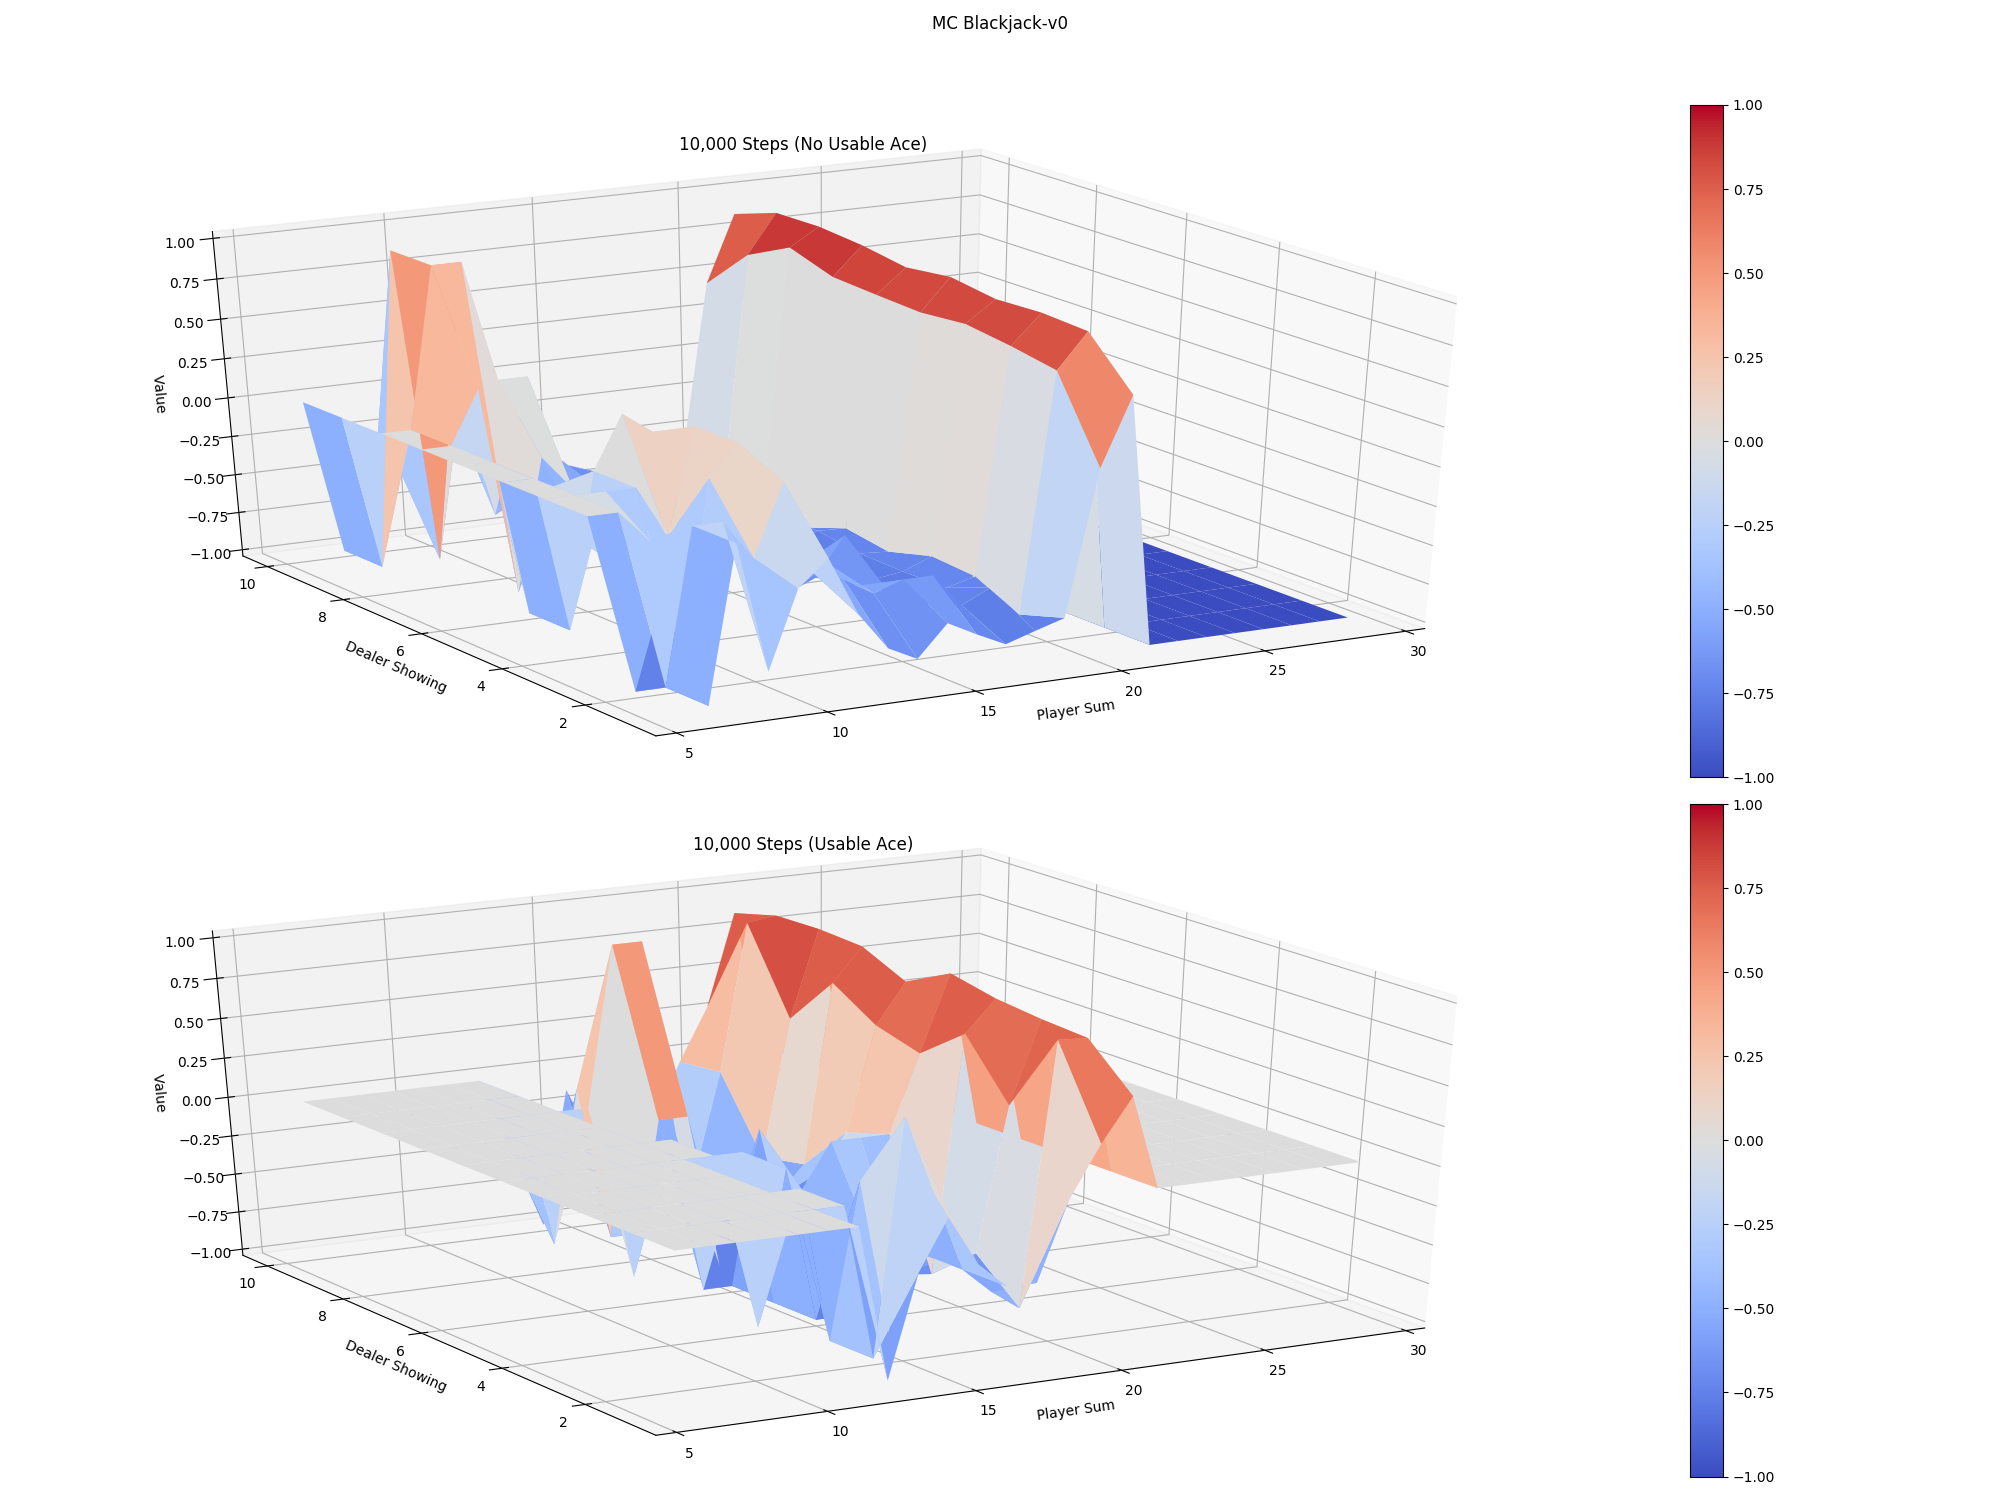
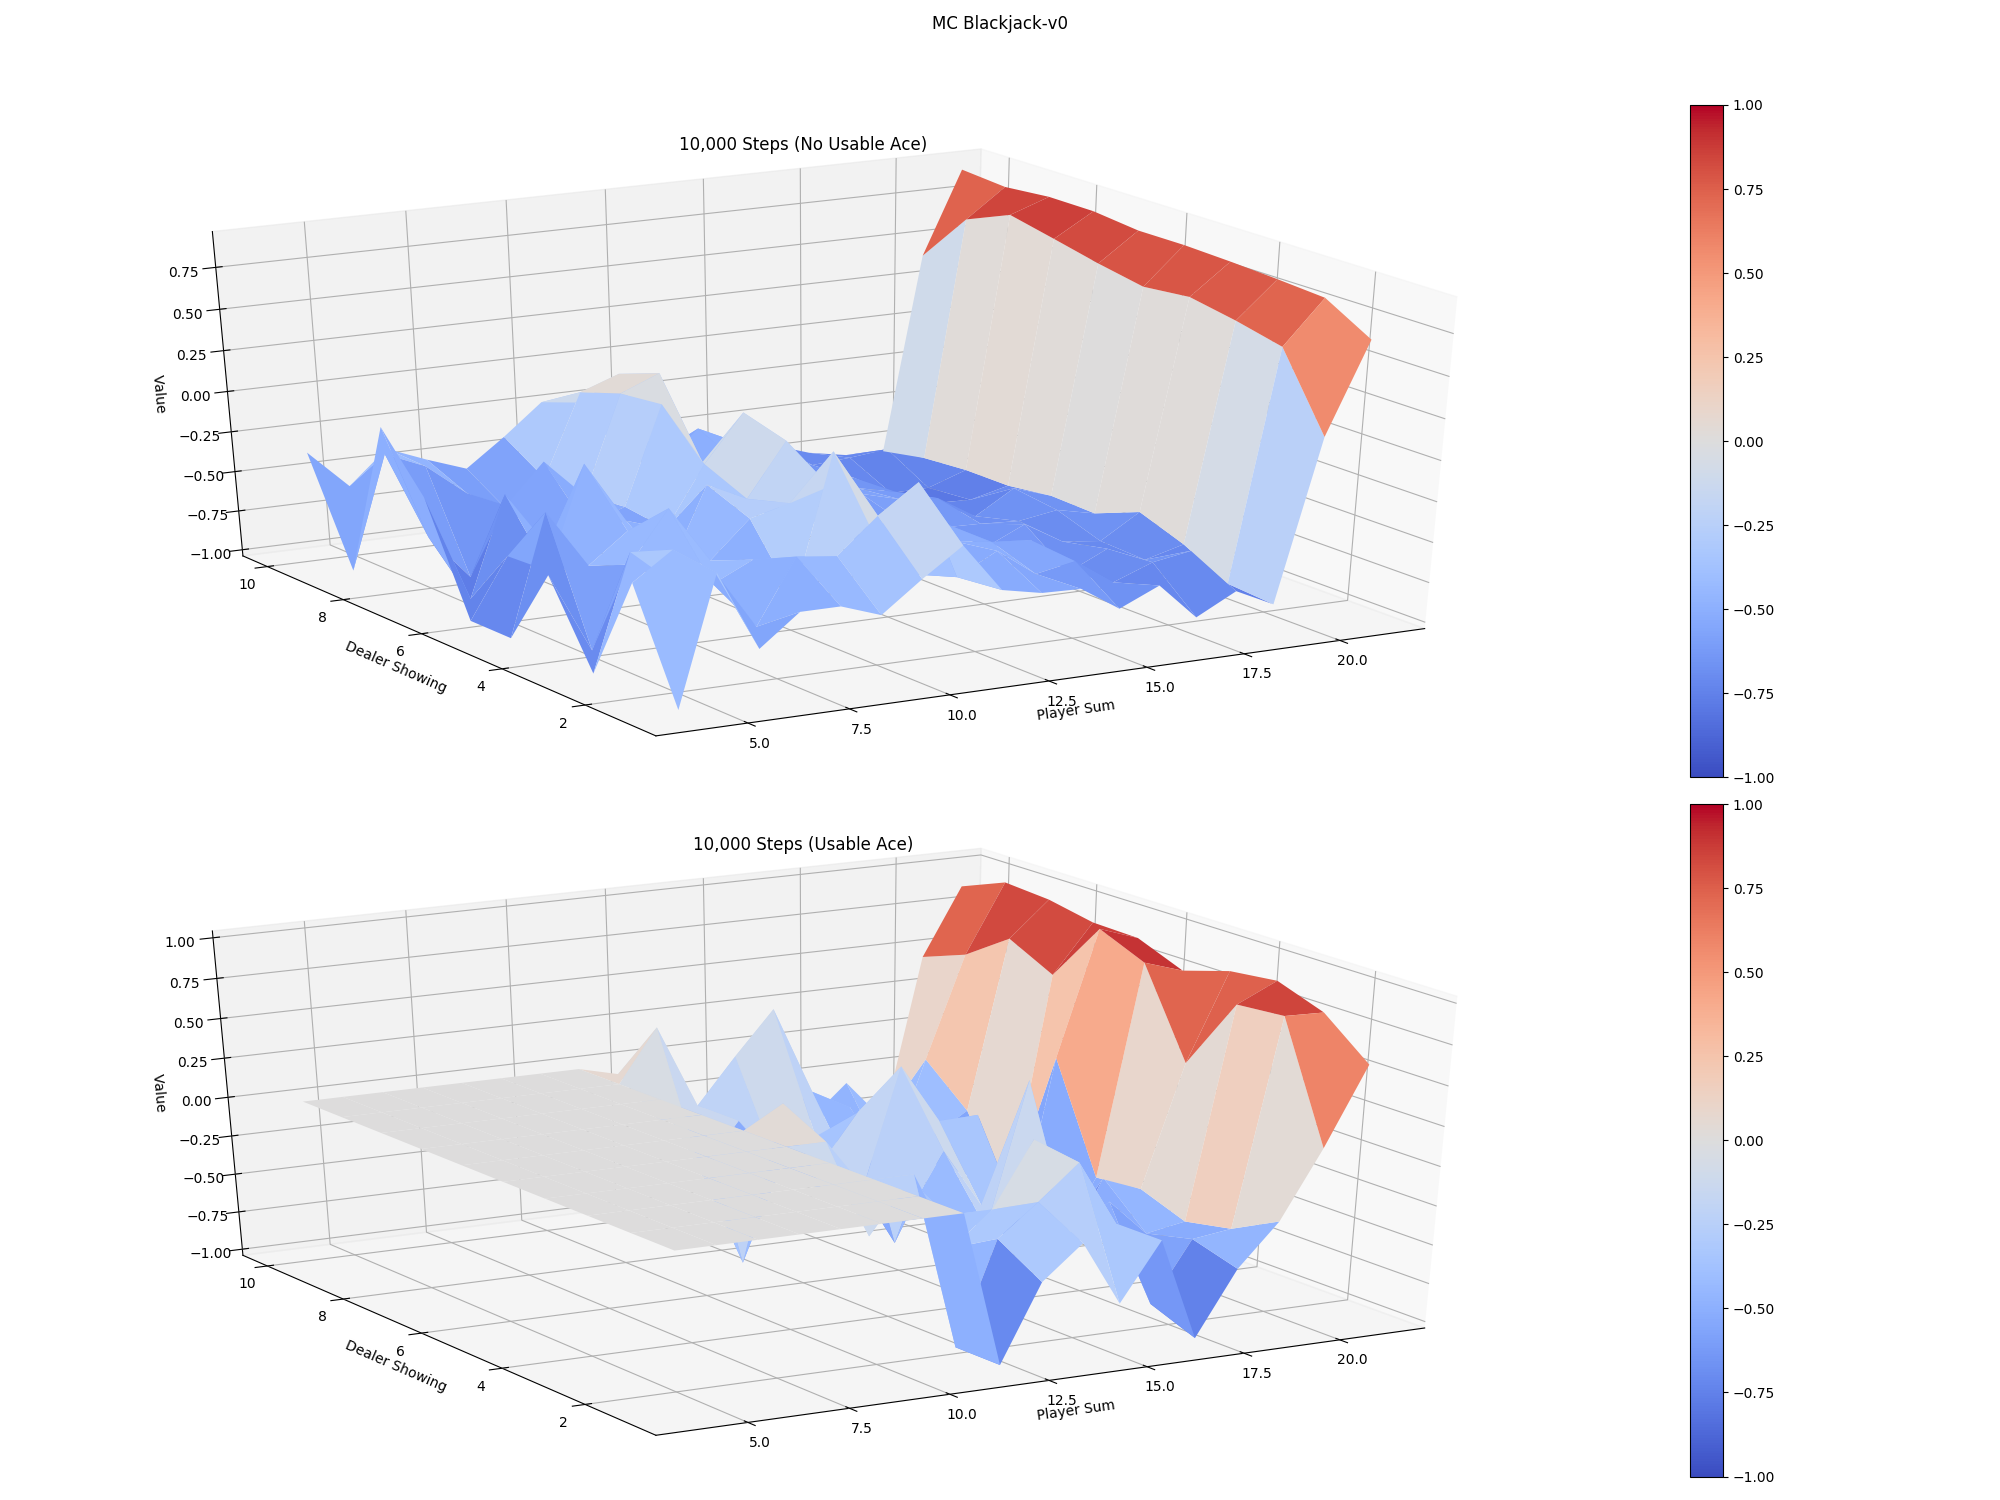
Fixed states for MC.

Changed region(s): [[0.093, 0.092, 0.713, 0.4907], [0.279, 0.5827, 0.682, 0.9507], [0.248, 0.7973, 0.279, 0.828]]

diff --git a/lab_2.py b/lab_2.py
@@ -187,14 +187,15 @@ def mc_prediction(policy, env, num_episodes, discount_factor=1.0, max_steps_per_
             print("\rEpisode {}/{}.".format(i, num_episodes), end="")
 
         G = 0
-        observation = env.reset()
+        state = env.reset()
         episode = []
         for j in range(max_steps_per_episode):
-            action = policy(observation)
-            observation, reward, done, info = env.step(action)
-            episode.append((observation, action, reward))
+            action = policy(state)
+            next_state, reward, done, info = env.step(action)
+            episode.append((state, action, reward))
             if done:
                 break
+            state= next_state
 
         for e in episode:
             state = e[0]
@@ -261,6 +262,17 @@ def mc_control_epsilon_greedy(env, num_episodes, discount_factor=1.0, epsilon=0.
         policy is a function that takes an observation as an argument and returns
         action probabilities
     """
+    def epsilon_greedy(policy, state):
+        action_prob = policy(state)
+        # Epsilon greedy
+        r = np.random.uniform(0, 1)
+        if(r > epsilon):
+            action = np.argmax(action_prob)
+        else:
+            action = np.random.randint(
+                low=0, high=env.action_space.n)
+        return action
+
     Q = defaultdict(lambda: np.zeros(env.action_space.n))
     policy = make_epsilon_greedy_policy(
         Q, epsilon, env.action_space.n)
@@ -271,20 +283,15 @@ def mc_control_epsilon_greedy(env, num_episodes, discount_factor=1.0, epsilon=0.
             print("\rEpisode {}/{}.".format(i, num_episodes), end="")
 
         G = 0
-        observation = env.reset()
+        state = env.reset()
         episode = []
         for j in range(max_steps_per_episode):
-            action_prob = policy(observation)
-            r = np.random.uniform(0, 1)
-            if(r > epsilon):
-                action = np.argmax(action_prob)
-            else:
-                action = np.random.randint(
-                    low=0, high=env.action_space.n)
-            observation, reward, done, info = env.step(action)
-            episode.append((observation, action, reward))
+            action = epsilon_greedy(policy,state)
+            next_state, reward, done, info = env.step(action)
+            episode.append((state, action, reward))
             if done:
                 break
+            state = next_state
 
         for e in episode:
             state = e[0]
